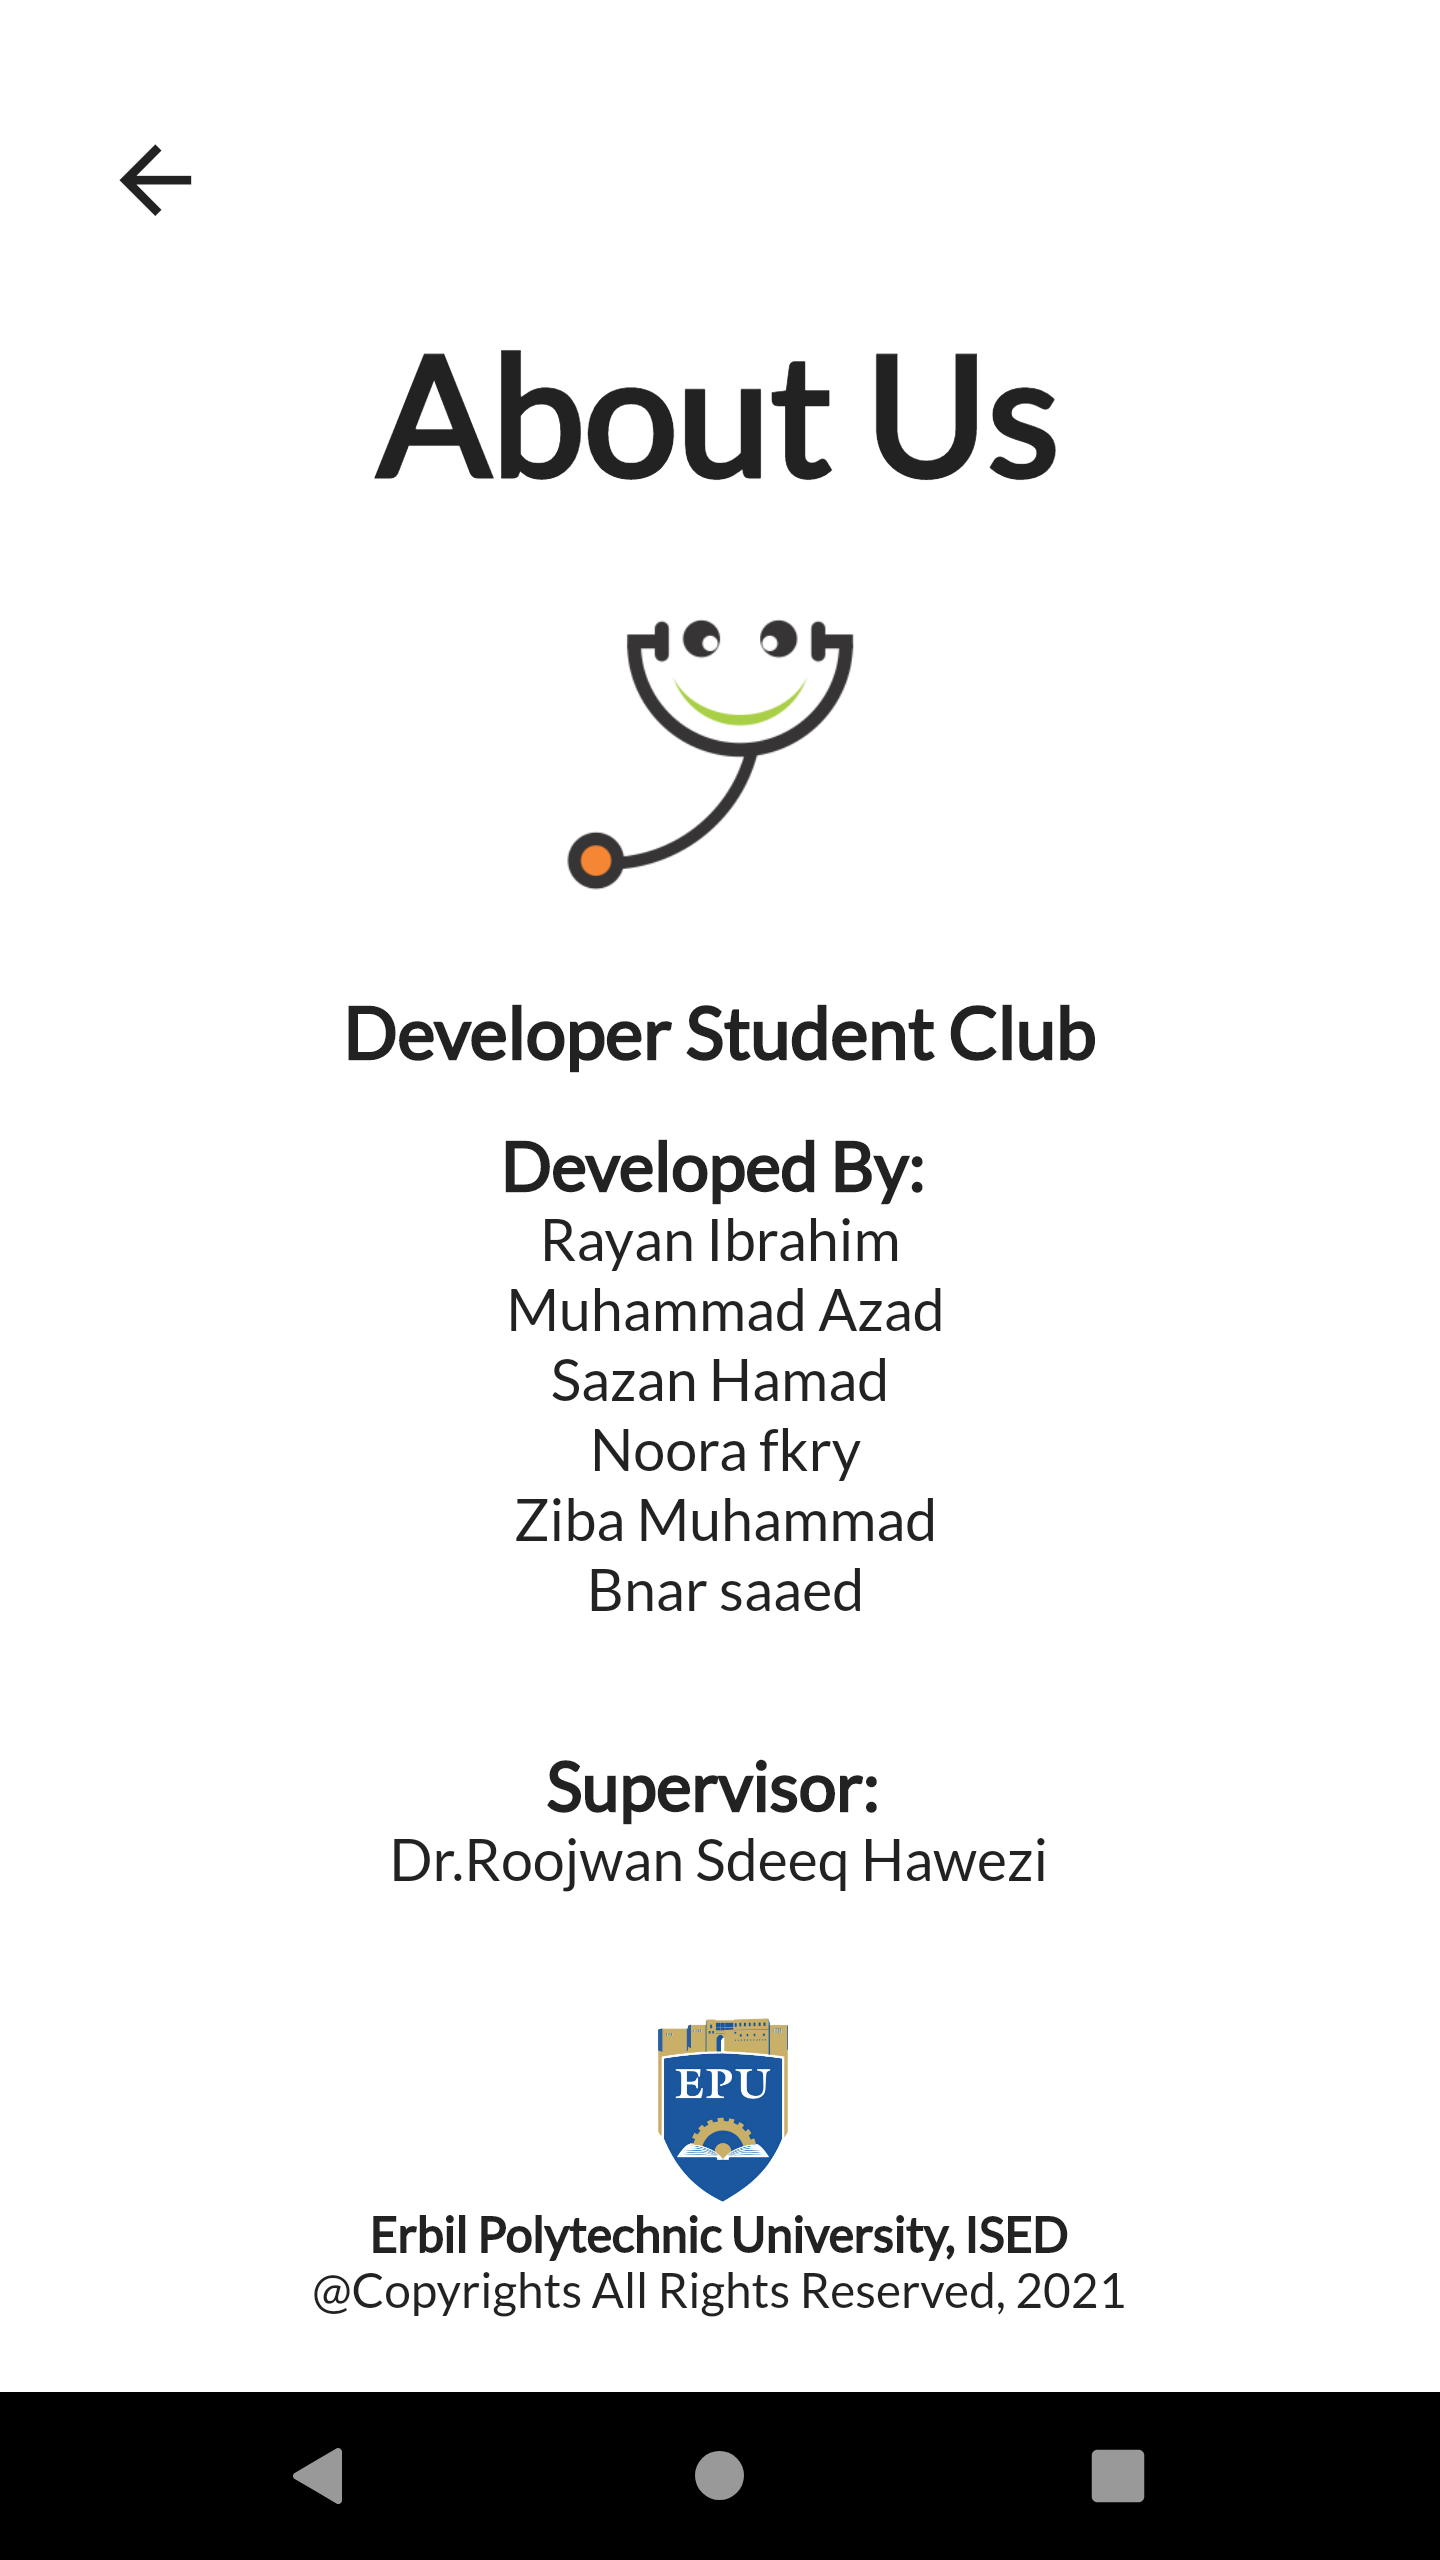
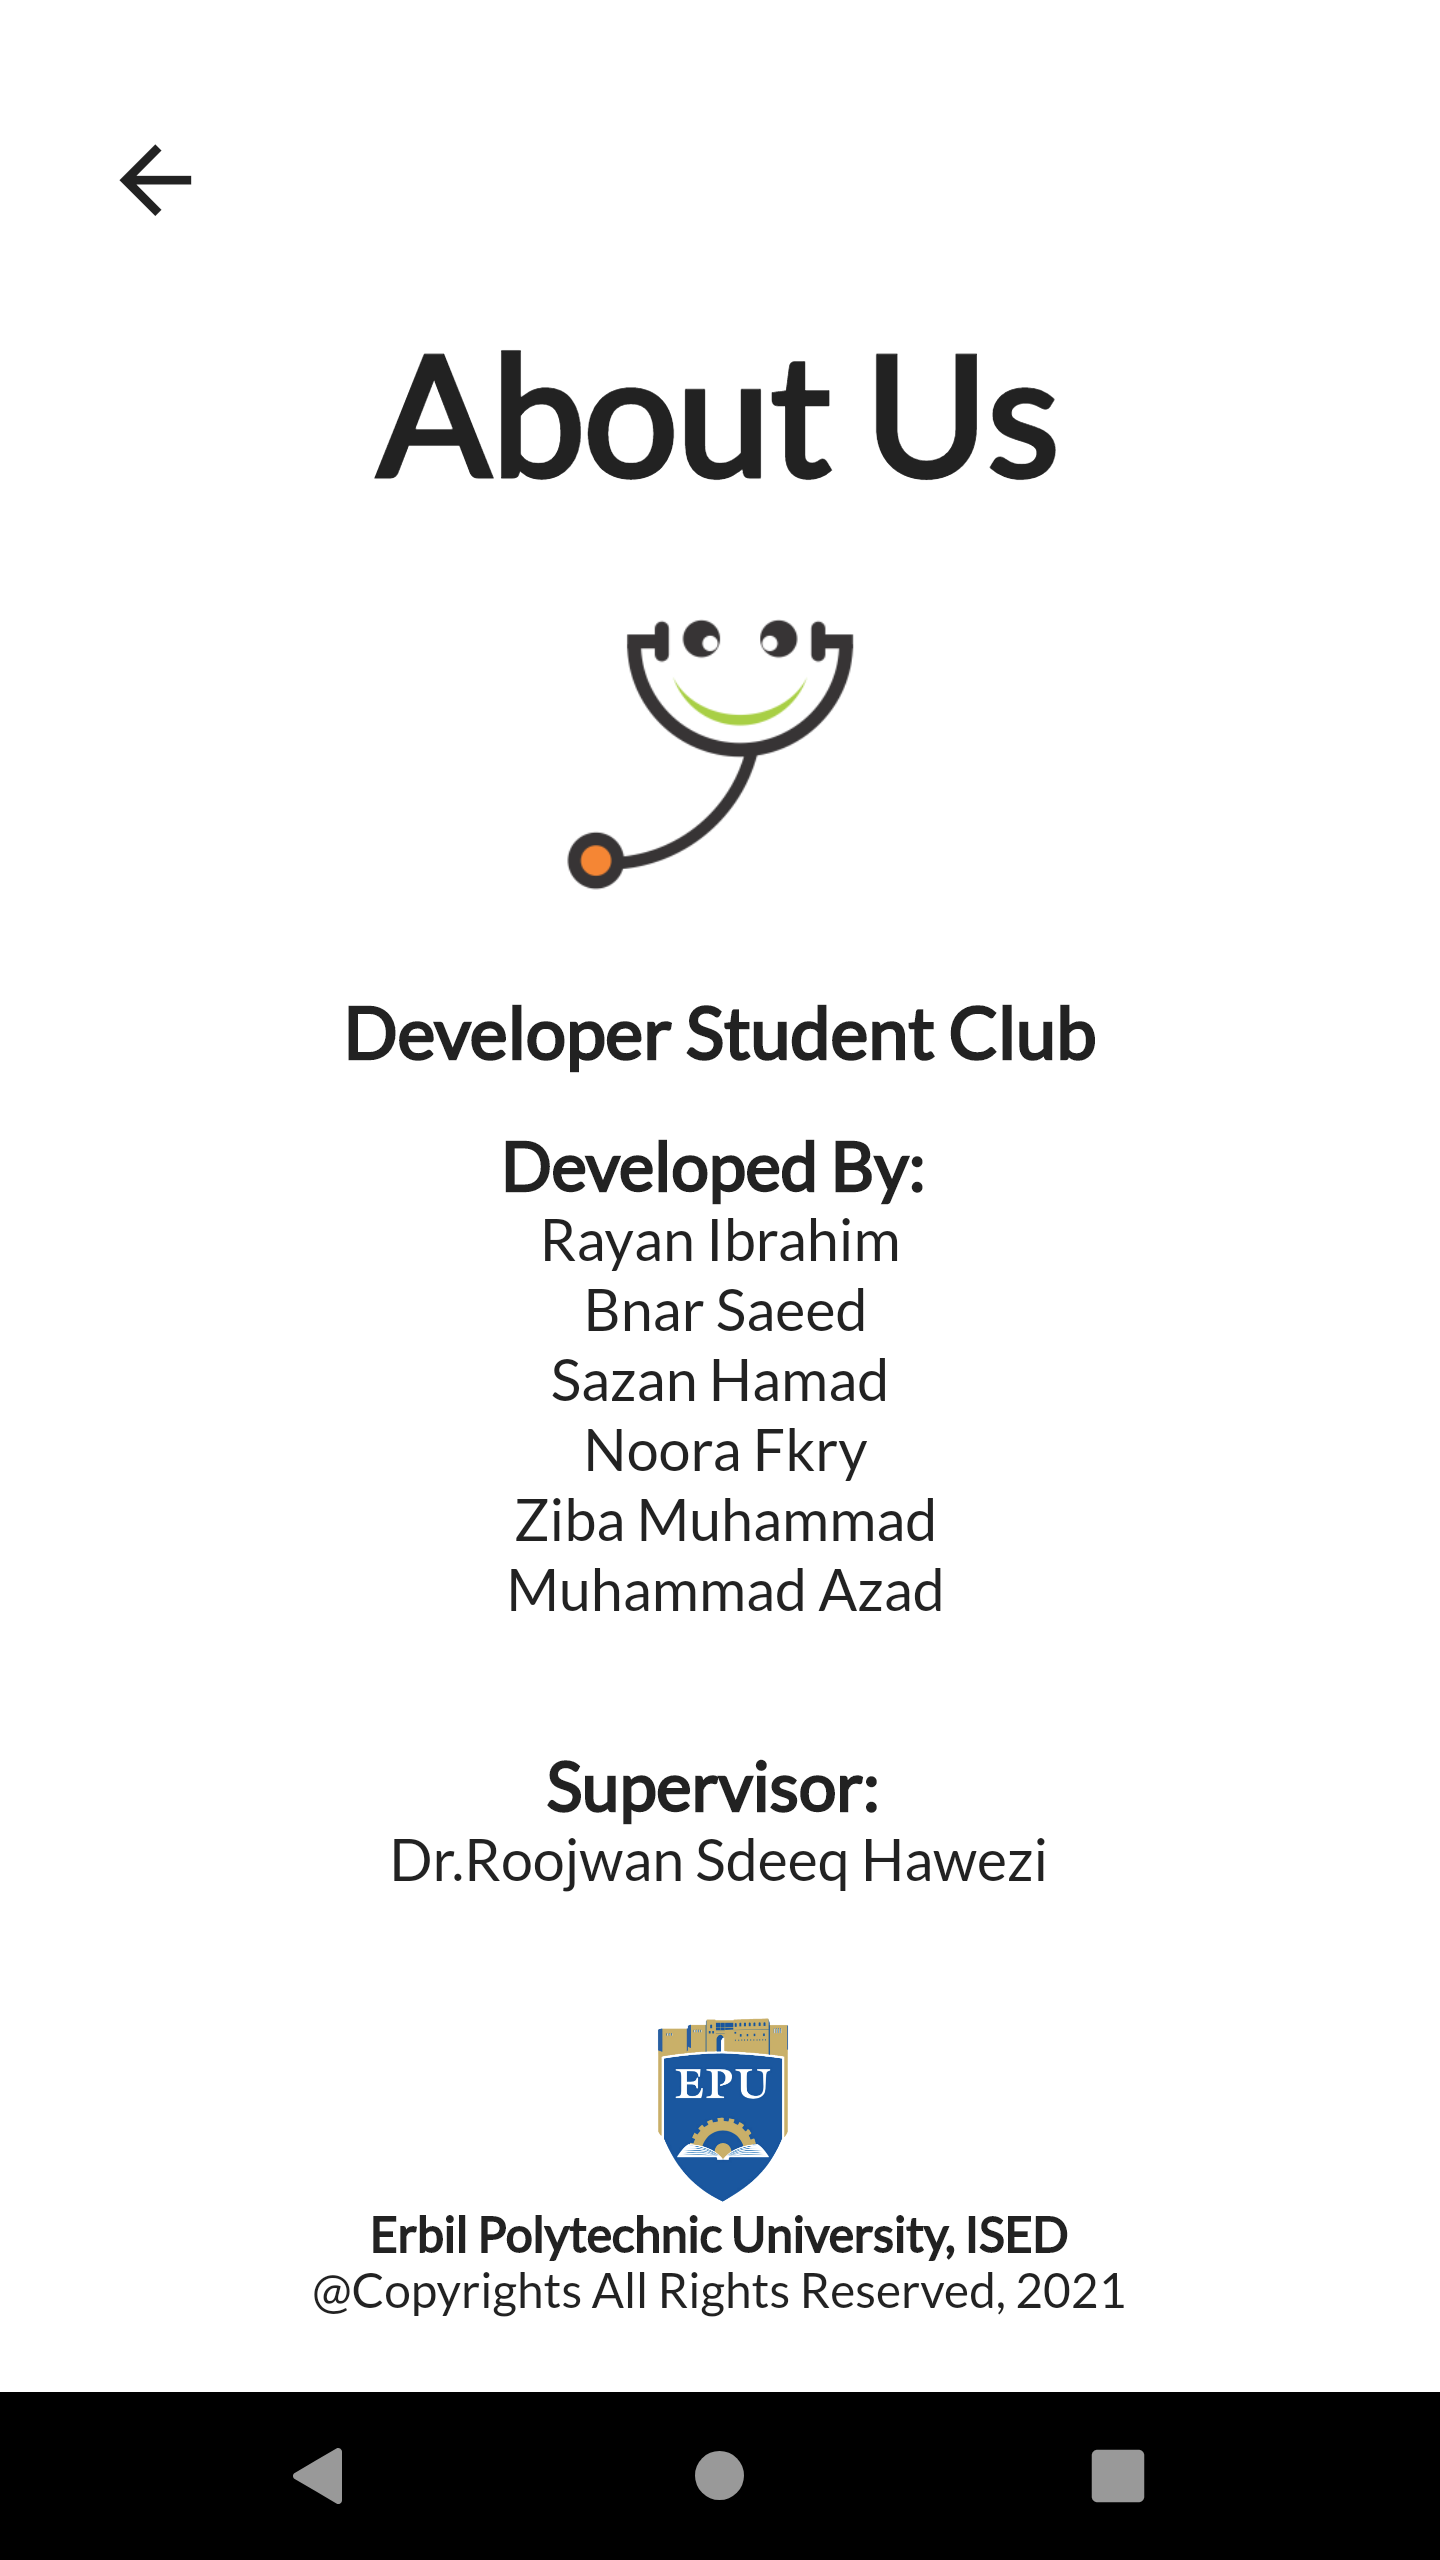
user profile, navigation draw list of hospital, list of doctor Hospital Detail, Doctor Detail show message when pass or email is not correct. medkit and introduction screen, half done Beta Version.
CV for Doctors, direct call or message to hospital and doctor, Type of Hospital, route to Hospital, Hospital image.

Forget Password.

Changed region(s): [[0.3438, 0.5625, 0.6562, 0.625], [0.3438, 0.5, 0.6562, 0.5312]]

diff --git a/lib/screens/login/login_screen.dart b/lib/screens/login/login_screen.dart
@@ -9,6 +9,7 @@ import 'package:testapp/screens/home/admin.dart';
 import 'package:testapp/screens/home/home_screen.dart';
 import 'package:testapp/screens/loading/onBoarding_screen.dart';
 import 'package:testapp/screens/loading/waiting_screen.dart';
+import 'package:testapp/screens/login/reset.dart';
 
 import 'email_auth.dart';
 
@@ -125,8 +126,7 @@ class _LoginScreenState extends State<LoginScreen> {
                                   if (value.isEmpty) {
                                     return 'Please enter email';
                                   }
-                                  if (!value.contains('@') ||
-                                      value.length < 5) {
+                                  if (!value.contains('@')) {
                                     return 'Enter Valid Email';
                                   }
                                   return null;
@@ -134,7 +134,7 @@ class _LoginScreenState extends State<LoginScreen> {
                               ),
                             ),
                             Container(
-                              margin: EdgeInsets.all(8),
+                              margin: EdgeInsets.fromLTRB(8, 8, 8, 0),
                               child: TextFormField(
                                 controller: passwordController,
                                 style: TextStyle(),
@@ -171,21 +171,31 @@ class _LoginScreenState extends State<LoginScreen> {
                                   if (value.length < 8) {
                                     return 'Password must be more than 8 characters';
                                   }
-
                                   return null;
                                 },
                               ),
                             ),
-                            SizedBox(
-                              height: 8,
-                            ),
-                            Text(
-                              error,
-                              style:
-                                  TextStyle(color: Colors.red, fontSize: 14.0),
-                            ),
-                            SizedBox(
-                              height: 8,
+                            if (error != '')
+                              SizedBox(
+                                height: 8,
+                              ),
+                            if (error != '')
+                              Text(
+                                error,
+                                style: TextStyle(
+                                    color: Colors.red, fontSize: 14.0),
+                              ),
+                            Row(
+                              mainAxisAlignment: MainAxisAlignment.end,
+                              children: [
+                                TextButton(
+                                  child: Text('Forgot Password?'),
+                                  onPressed: () => Navigator.of(context).push(
+                                    MaterialPageRoute(
+                                        builder: (context) => ResetScreen()),
+                                  ),
+                                )
+                              ],
                             ),
                             RaisedButton.icon(
                               label: Text(

diff --git a/lib/screens/login/email_auth.dart b/lib/screens/login/email_auth.dart
@@ -3,6 +3,7 @@ import 'package:firebase_auth/firebase_auth.dart';
 import 'package:flutter/material.dart';
 import 'package:shared_preferences/shared_preferences.dart';
 import 'package:testapp/screens/loading/onBoarding_screen.dart';
+import 'package:testapp/screens/login/verifyemail_screen.dart';
 
 class EmailRegister extends StatefulWidget {
   @override
@@ -88,6 +89,12 @@ class _EmailRegisterState extends State<EmailRegister> {
         print(e.toString());
       }
     });
+  }
+
+  bool validatePasswordStructure(String value){
+    String  pattern = r'^(?=.*?[A-Z])(?=.*?[a-z])(?=.*?[0-9])(?=.*?[!@#\$&*~]).{8,}$';
+    RegExp regExp = new RegExp(pattern);
+    return regExp.hasMatch(value);
   }
 
   @override
@@ -209,7 +216,7 @@ class _EmailRegisterState extends State<EmailRegister> {
                             if (value.isEmpty) {
                               return 'Please enter email';
                             }
-                            if (!value.contains('@') || value.length < 5) {
+                            if (!value.contains('@')) {
                               return 'Enter Valid Email';
                             }
                             return null;
@@ -271,8 +278,9 @@ class _EmailRegisterState extends State<EmailRegister> {
                             if (value.isEmpty) {
                               return 'Please enter password';
                             }
-                            if (value.length < 8) {
-                              return 'Password must be more than 8 characters';
+                            if (!validatePasswordStructure(value)) {
+                              return 'Password must contain Uppercase, Lowercase,'
+                                  '\n Number and  Special Character';
                             }
 
                             return null;
@@ -312,9 +320,6 @@ class _EmailRegisterState extends State<EmailRegister> {
                           validator: (value) {
                             if (value.isEmpty) {
                               return 'Please enter password';
-                            }
-                            if (value.length < 8) {
-                              return 'Password must be more than 8 characters';
                             }
                             if (value != passwordController.text) {
                               return 'Password does not match';

diff --git a/lib/screens/about/aboutUs.dart b/lib/screens/about/aboutUs.dart
@@ -1,7 +1,6 @@
 import 'package:flutter/cupertino.dart';
 import 'package:flutter/material.dart';
 import 'package:testapp/screens/home/home_screen.dart';
-import 'package:testapp/widgets/app_default.dart';
 
 class AboutUs extends StatelessWidget {
   @override
@@ -65,11 +64,11 @@ class AboutUs extends StatelessWidget {
                       ),
                       Text(
                         'Rayan Ibrahim'
-                        '\n Muhammad Azad'
+                        '\n Bnar Saeed'
                         '\nSazan Hamad'
-                        '\n Noora fkry'
+                        '\n Noora Fkry'
                         '\n Ziba Muhammad'
-                        '\n Bnar saaed',
+                        '\n Muhammad Azad',
                         textAlign: TextAlign.center,
                         style: TextStyle(fontSize: height * 0.024),
                       ),

diff --git a/lib/screens/login/verifyemail_screen.dart b/lib/screens/login/verifyemail_screen.dart
@@ -2,6 +2,7 @@ import 'dart:async';
 
 import 'package:firebase_auth/firebase_auth.dart';
 import 'package:flutter/material.dart';
+import 'package:testapp/screens/home/home_screen.dart';
 import 'package:testapp/screens/loading/onBoarding_screen.dart';
 
 class VerifyScreen extends StatefulWidget {
@@ -53,7 +54,7 @@ class _VerifyScreenState extends State<VerifyScreen> {
       timer.cancel();
       print('verified email');
       Navigator.pushReplacement(context, MaterialPageRoute(builder: (context) {
-        return OnBoardingScreen();
+        return HomeScreen();
       }));
     }
   }
